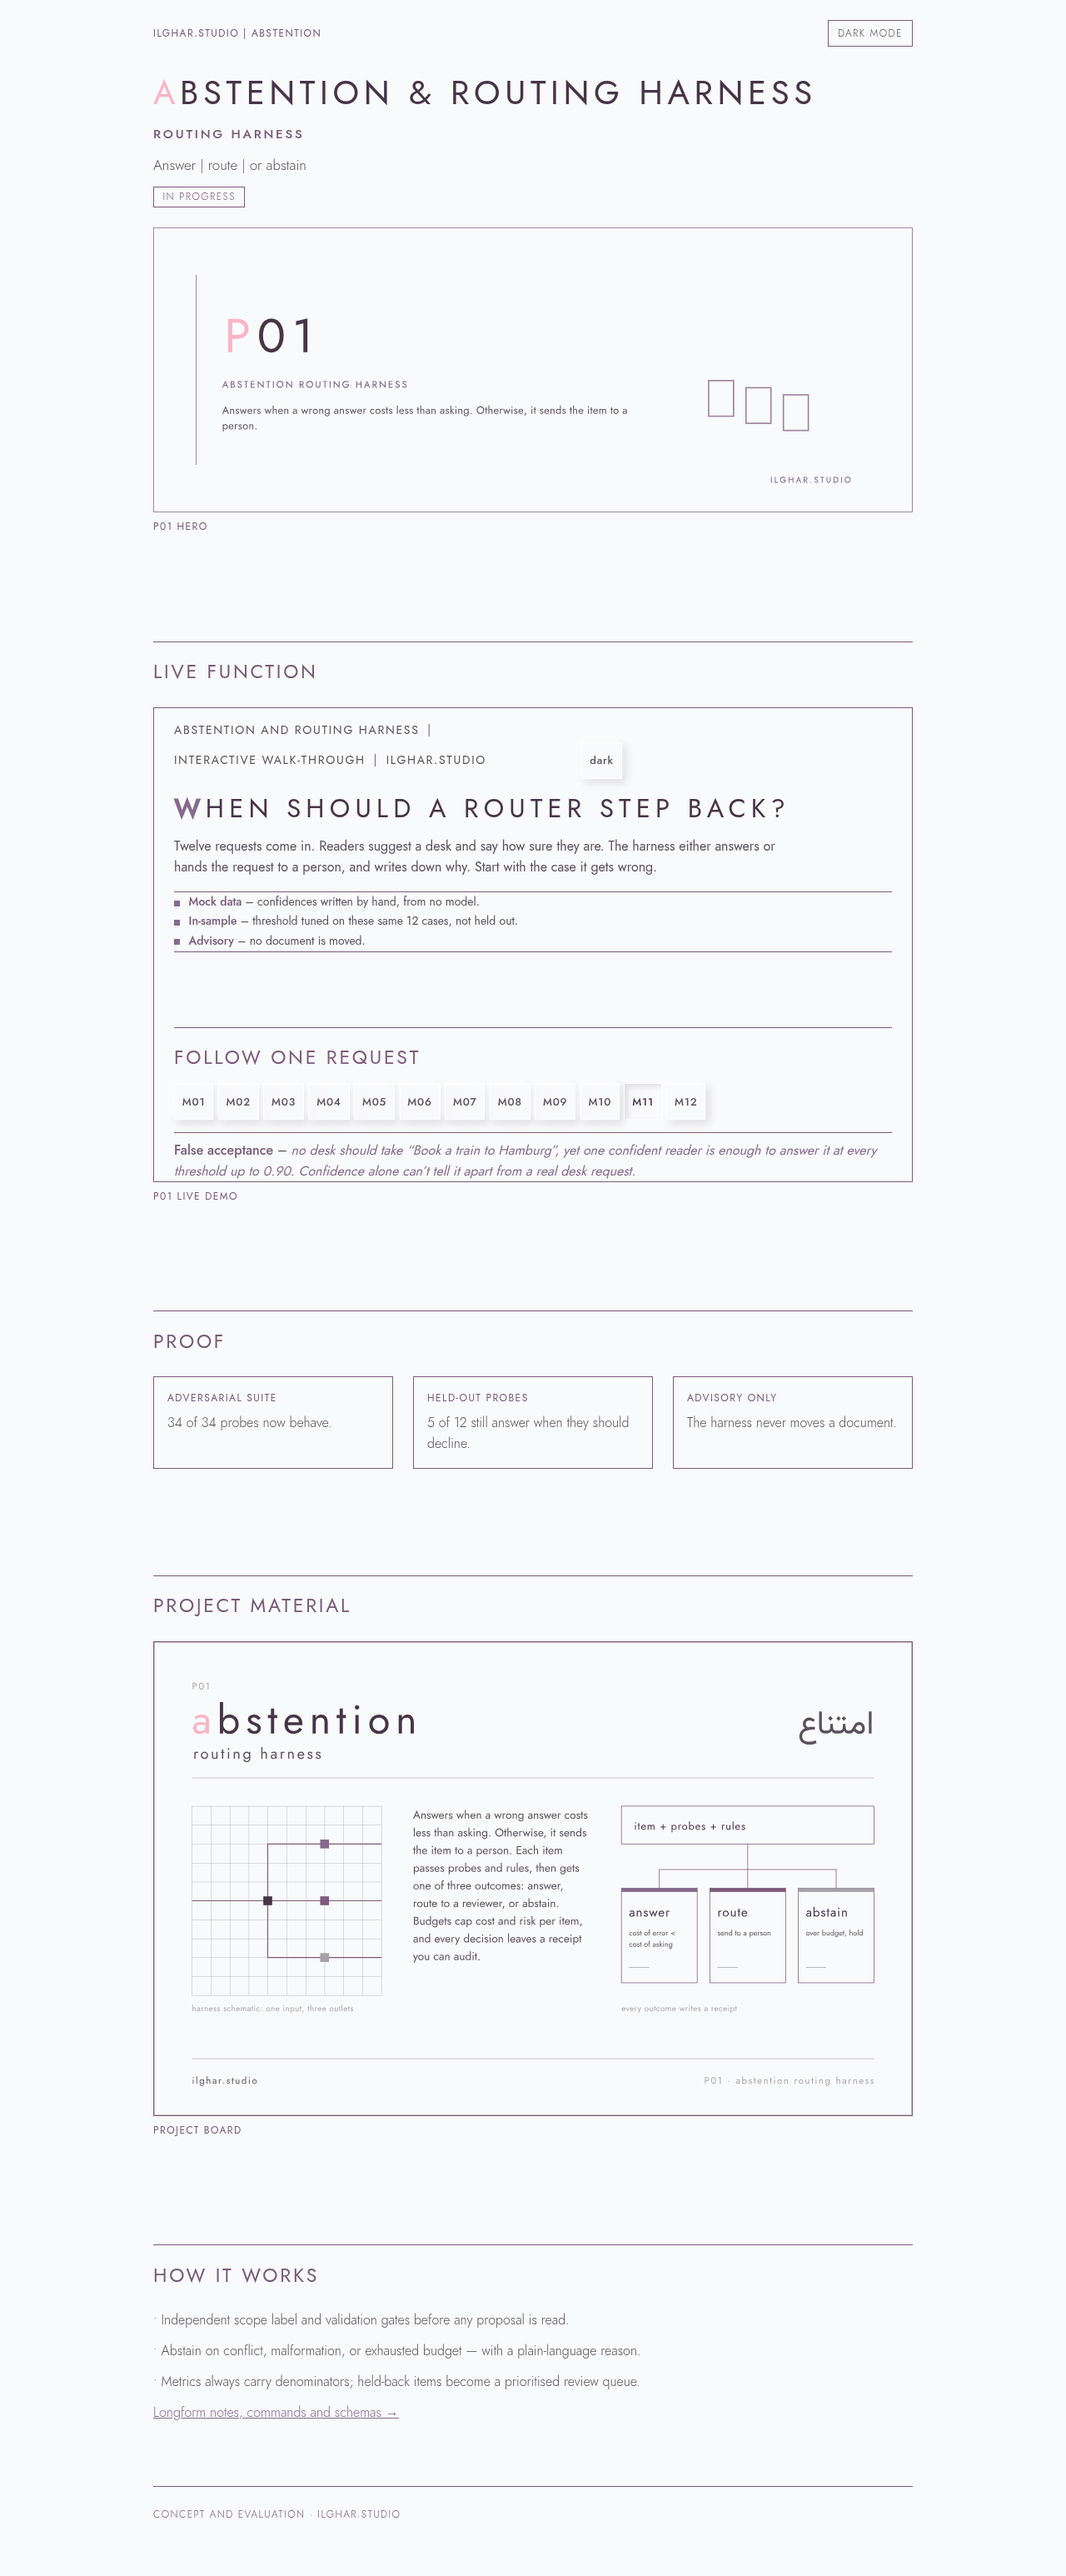
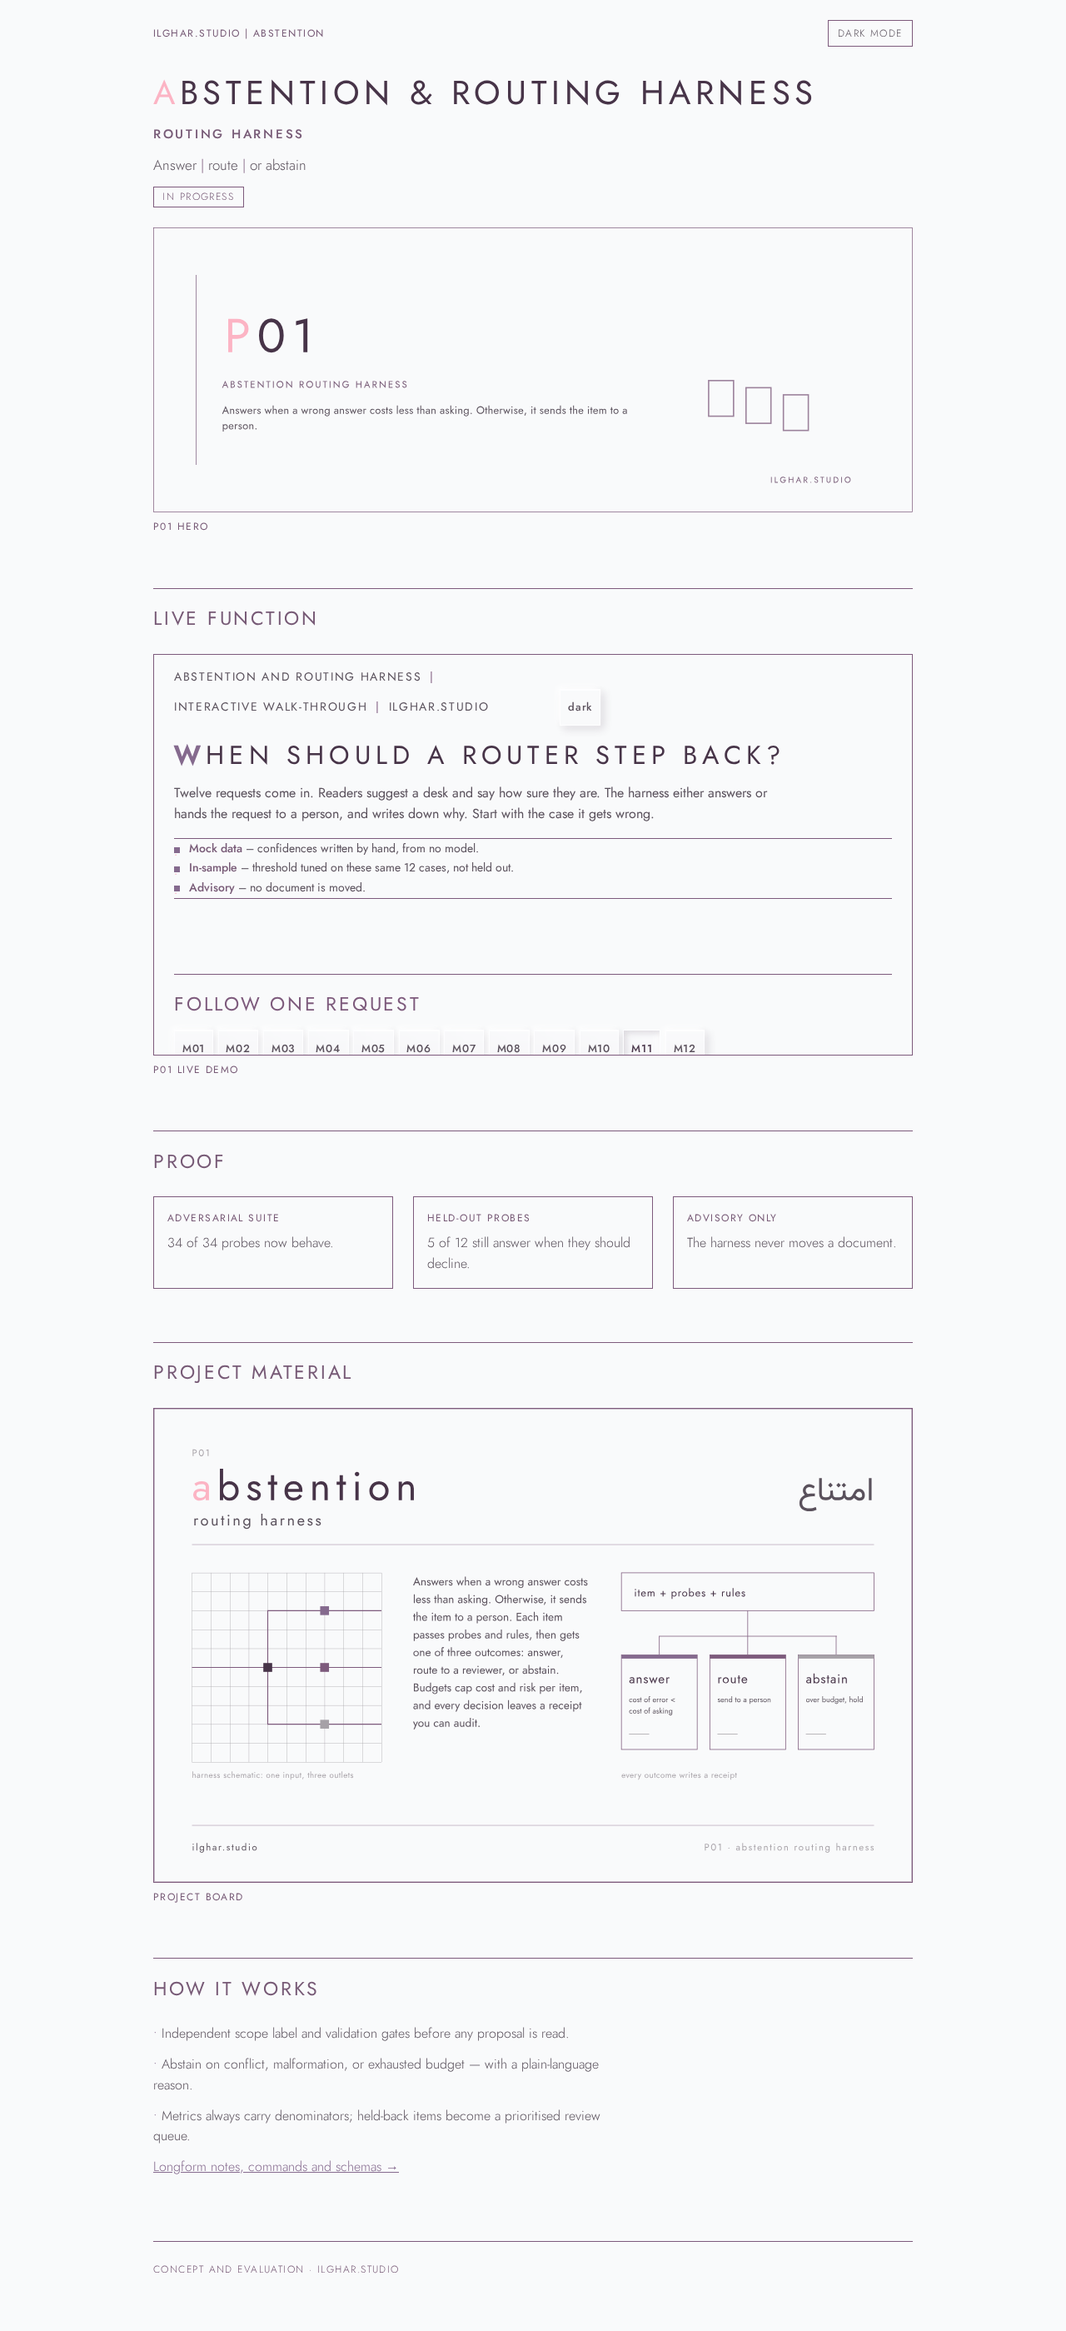
website-ops: 64px section rhythm, live frames content-height, Critiquito blockers
- Drop h2 top margin that doubled the section gap after hero
- Live demos: .frame.live content-height (keep r1610 boards / r83 hero)
- signature-typography: one 12-span live frame, soft neumorphic with palette
  shadows only, measured text ≥4.5:1, interactive 1px #7d5a7c hairline,
  Project material from f1/f2
- Signature-animation: Proof + Project material + How it works; tighter live
- Reshoot pages-1280/390 light+dark

diff --git a/site/pages-shell.css b/site/pages-shell.css
@@ -63,8 +63,7 @@ figcaption,.cap{
   margin-top:8px;font-size:12px;font-weight:400;letter-spacing:.12em;text-transform:uppercase;color:var(--label);
 }
 h2{font-weight:400;font-size:23px;letter-spacing:.12em;text-transform:uppercase;color:var(--label);
-  border-top:1px solid var(--line);padding-top:.8em;margin:64px 0 24px}
-@media (max-width:600px){h2{margin-top:48px}}
+  border-top:1px solid var(--line);padding-top:.8em;margin:0 0 24px}
 .card{border:1px solid var(--line);border-radius:0;box-shadow:none;background:var(--bg);padding:16px;margin:0}
 .card h3{font-size:12px;font-weight:400;letter-spacing:.12em;text-transform:uppercase;color:var(--label);margin:0 0 8px}
 .card p{margin:0;font-size:16px;font-weight:300;max-width:64ch}
@@ -83,3 +82,40 @@ footer{margin-top:64px;padding-top:24px;border-top:1px solid var(--line);font-si
 .hero-art img{position:absolute;inset:0;display:block;width:100%!important;height:100%!important;max-height:none;object-fit:fill;border:0;border-radius:0}
 figure.span12 > .hero-art, figure.hero > .hero-art{width:100%}
 
+
+/* section rhythm — exactly 64px (48px ≤600); no extra h2 top margin */
+section{margin-top:64px;margin-bottom:0}
+@media (max-width:600px){section{margin-top:48px}}
+figure.span12{margin:0}
+
+/* Live demo frames: full width, height follows content — no forced 16:10.
+   Hero .hero-art stays 8:3; boards/cards keep .r1610 / .r43. */
+section[aria-label="Live function"] .frame,
+.frame.live,
+#app-frame{
+  aspect-ratio:auto;
+  height:auto;
+  min-height:0;
+}
+section[aria-label="Live function"] .frame > *,
+.frame.live > *,
+#app-frame > *{
+  width:100%;
+  height:auto;
+  max-height:none;
+  object-fit:unset;
+  position:static;
+}
+section[aria-label="Live function"] .frame iframe,
+.frame.live iframe{
+  display:block;
+  width:100%;
+  height:auto;
+  min-height:480px;
+  border:0;
+  position:static;
+}
+@media (max-width:600px){
+  section[aria-label="Live function"] .frame iframe,
+  .frame.live iframe{min-height:520px}
+}

diff --git a/site/index.html b/site/index.html
@@ -41,7 +41,7 @@ iframe.frame-fill{width:100%;height:100%;border:0;display:block;min-height:0}
   <section class="span12" aria-label="Live function">
     <h2>Live function</h2>
     <figure>
-      <div class="frame r1610">
+      <div class="frame live">
         <iframe title="P01 abstention demo" src="demo/" loading="lazy"></iframe>
       </div>
       <figcaption>P01 live demo</figcaption>
